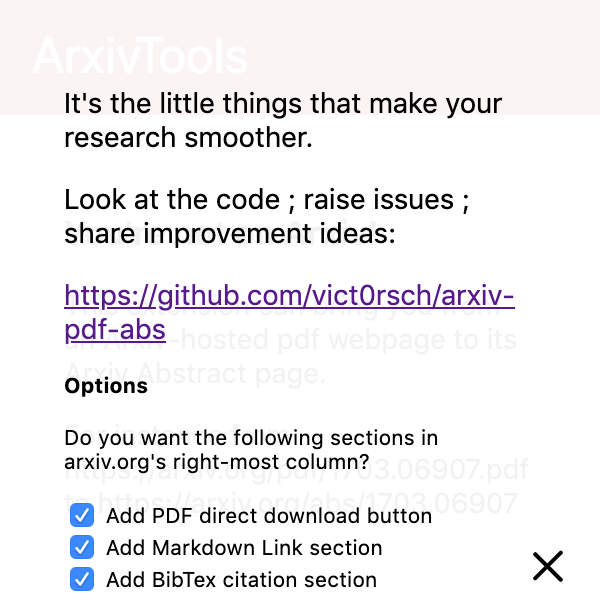
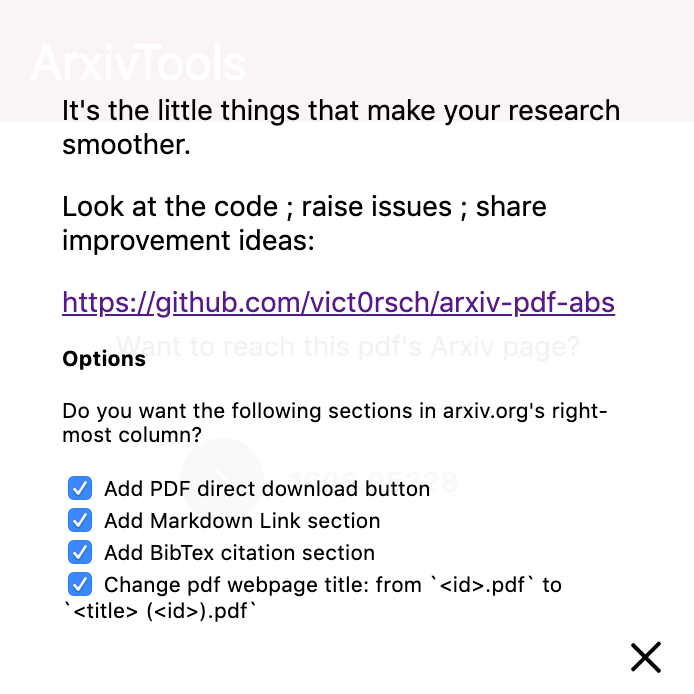
bump 0.0.2: + pdf title & fix id

diff --git a/src/content_scripts/content_script.js b/src/content_scripts/content_script.js
@@ -67,17 +67,13 @@ $(() => {
     var checkMd = true;
     var checkBib = true;
     var checkDownload = true;
-    chrome.storage.sync.get(['checkBib', 'checkMd', 'checkDownload'], function (items) {
-
-        console.log(">> received", items);
+    var checkPdfTitle = true
+    chrome.storage.sync.get(['checkBib', 'checkMd', 'checkDownload', 'checkPdfTitle'], function (items) {
 
         checkMd = items.hasOwnProperty("checkMd") && items.checkMd;
         checkBib = items.hasOwnProperty("checkBib") && items.checkBib;
         checkDownload = items.hasOwnProperty("checkDownload") && items.checkDownload;
-        console.log({ checkMd, checkBib, checkDownload });
-
-
-
+        checkPdfTitle = items.hasOwnProperty("checkPdfTitle") && items.checkPdfTitle;
 
         var h = null;
         $("h2").each((idx, el) => {
@@ -85,14 +81,15 @@ $(() => {
                 h = $(el);
             }
         });
-        const id = document.title.slice(1, 11);
+        const id = window.location.href.match(/\d\d\d\d\.\d\d\d\d\d/g)[0];
+        const isPdf = window.location.href.match(/\d\d\d\d\.\d\d\d\d\d\.pdf/g);
         const pdfUrl = "https://arxiv.org/pdf/" + id + ".pdf";
         const fileName = id + " - " + document.title.split(" ").slice(1).join(" ") + ".pdf";
 
         // -----------------------------
         // -----  Download Button  -----
         // -----------------------------
-        if (checkDownload) {
+        if (checkDownload && !isPdf) {
             const button = `
             <div class="arxivTools-container">
                 <button id="arxiv-button" class="arxiv-learn-more">
@@ -105,14 +102,13 @@ $(() => {
             `;
             h.parent().append(button)
             $("#arxiv-button").click(() => {
-                console.log("click");
                 download_file(pdfUrl, fileName);
             })
         }
         // ---------------------------
         // -----  Markdown Link  -----
         // ---------------------------
-        if (checkMd) {
+        if (checkMd && !isPdf) {
             h.parent().append(`
             <div id="markdown-container">
                 <div id="markdown-header" class="arxivTools-header">
@@ -128,7 +124,17 @@ $(() => {
             });
         }
 
-        if (checkBib) {
+        if (checkPdfTitle && isPdf) {
+
+            $.get(`https://export.arxiv.org/api/query?id_list=${id}`).then(data => {
+                const bib = $(data);
+                const title = $(bib.find("entry title")[0]).text();
+                window.document.title = title + ` (${id}).pdf`
+            });
+
+        }
+
+        if (checkBib && !isPdf) {
 
             h.parent().append(`
                 <div id="loader-container" class="arxivTools-container">

diff --git a/src/popup/popup.html b/src/popup/popup.html
@@ -50,7 +50,7 @@
 			<p>Look at the code ; raise issues ; share improvement ideas:</p>
 
 			<p><a id="helpGithubLink"
-					href="https://github.com/vict0rsch/arxiv-pdf-abs">https://github.com/vict0rsch/arxiv-pdf-abs</a>
+					href="https://github.com/vict0rsch/ArxivTools">https://github.com/vict0rsch/ArxivTools</a>
 			</p>
 
 			<!-- <p>Using VSCode? Checkout <a id="coblock"
@@ -68,6 +68,9 @@
 
 			<input type="checkbox" id="checkBib" name="checkBib" value="checkBib">
 			<label for="checkBib">Add BibTex citation section</label><br>
+
+			<input type="checkbox" id="checkPdfTitle" name="checkPdfTitle" value="checkPdfTitle">
+			<label for="checkPdfTitle">Change pdf webpage title: from `&lt;id&gt;.pdf` to `&lt;title&gt; (&lt;id&gt;).pdf`</label><br>
 		</div>
 
 	</div>

diff --git a/src/popup/popup.js b/src/popup/popup.js
@@ -53,7 +53,7 @@ const main = url => {
         });
     })
 
-    const checks = ["checkBib", "checkMd", "checkDownload"]
+    const checks = ["checkBib", "checkMd", "checkDownload", "checkPdfTitle"]
     chrome.storage.sync.get(checks, function (items) {
 
         console.log({ items })

diff --git a/src/popup/main.css b/src/popup/main.css
@@ -1,8 +1,8 @@
 @import url("https://fonts.googleapis.com/css?family=Mukta:700");
 
 html {
-    min-width: 300px;
-    min-height: 200px;
+    min-width: 350px;
+    min-height: 350px;
     border-radius: 20px;
     font-family: "Mukta";
     font-size: 14px;

diff --git a/Readme.md b/Readme.md
@@ -14,7 +14,7 @@ This browser extension allows you to do enhance Arxiv with 4 features:
 Customize these features in the menu:
 
 <p align="center">
-<img src="https://github.com/vict0rsch/ArxivTools/blob/master/imgs/m.png?raw=true" width="200">
+<img src="https://github.com/vict0rsch/ArxivTools/blob/master/imgs/m.png?raw=true" width="250">
 </p>
 
 ---
